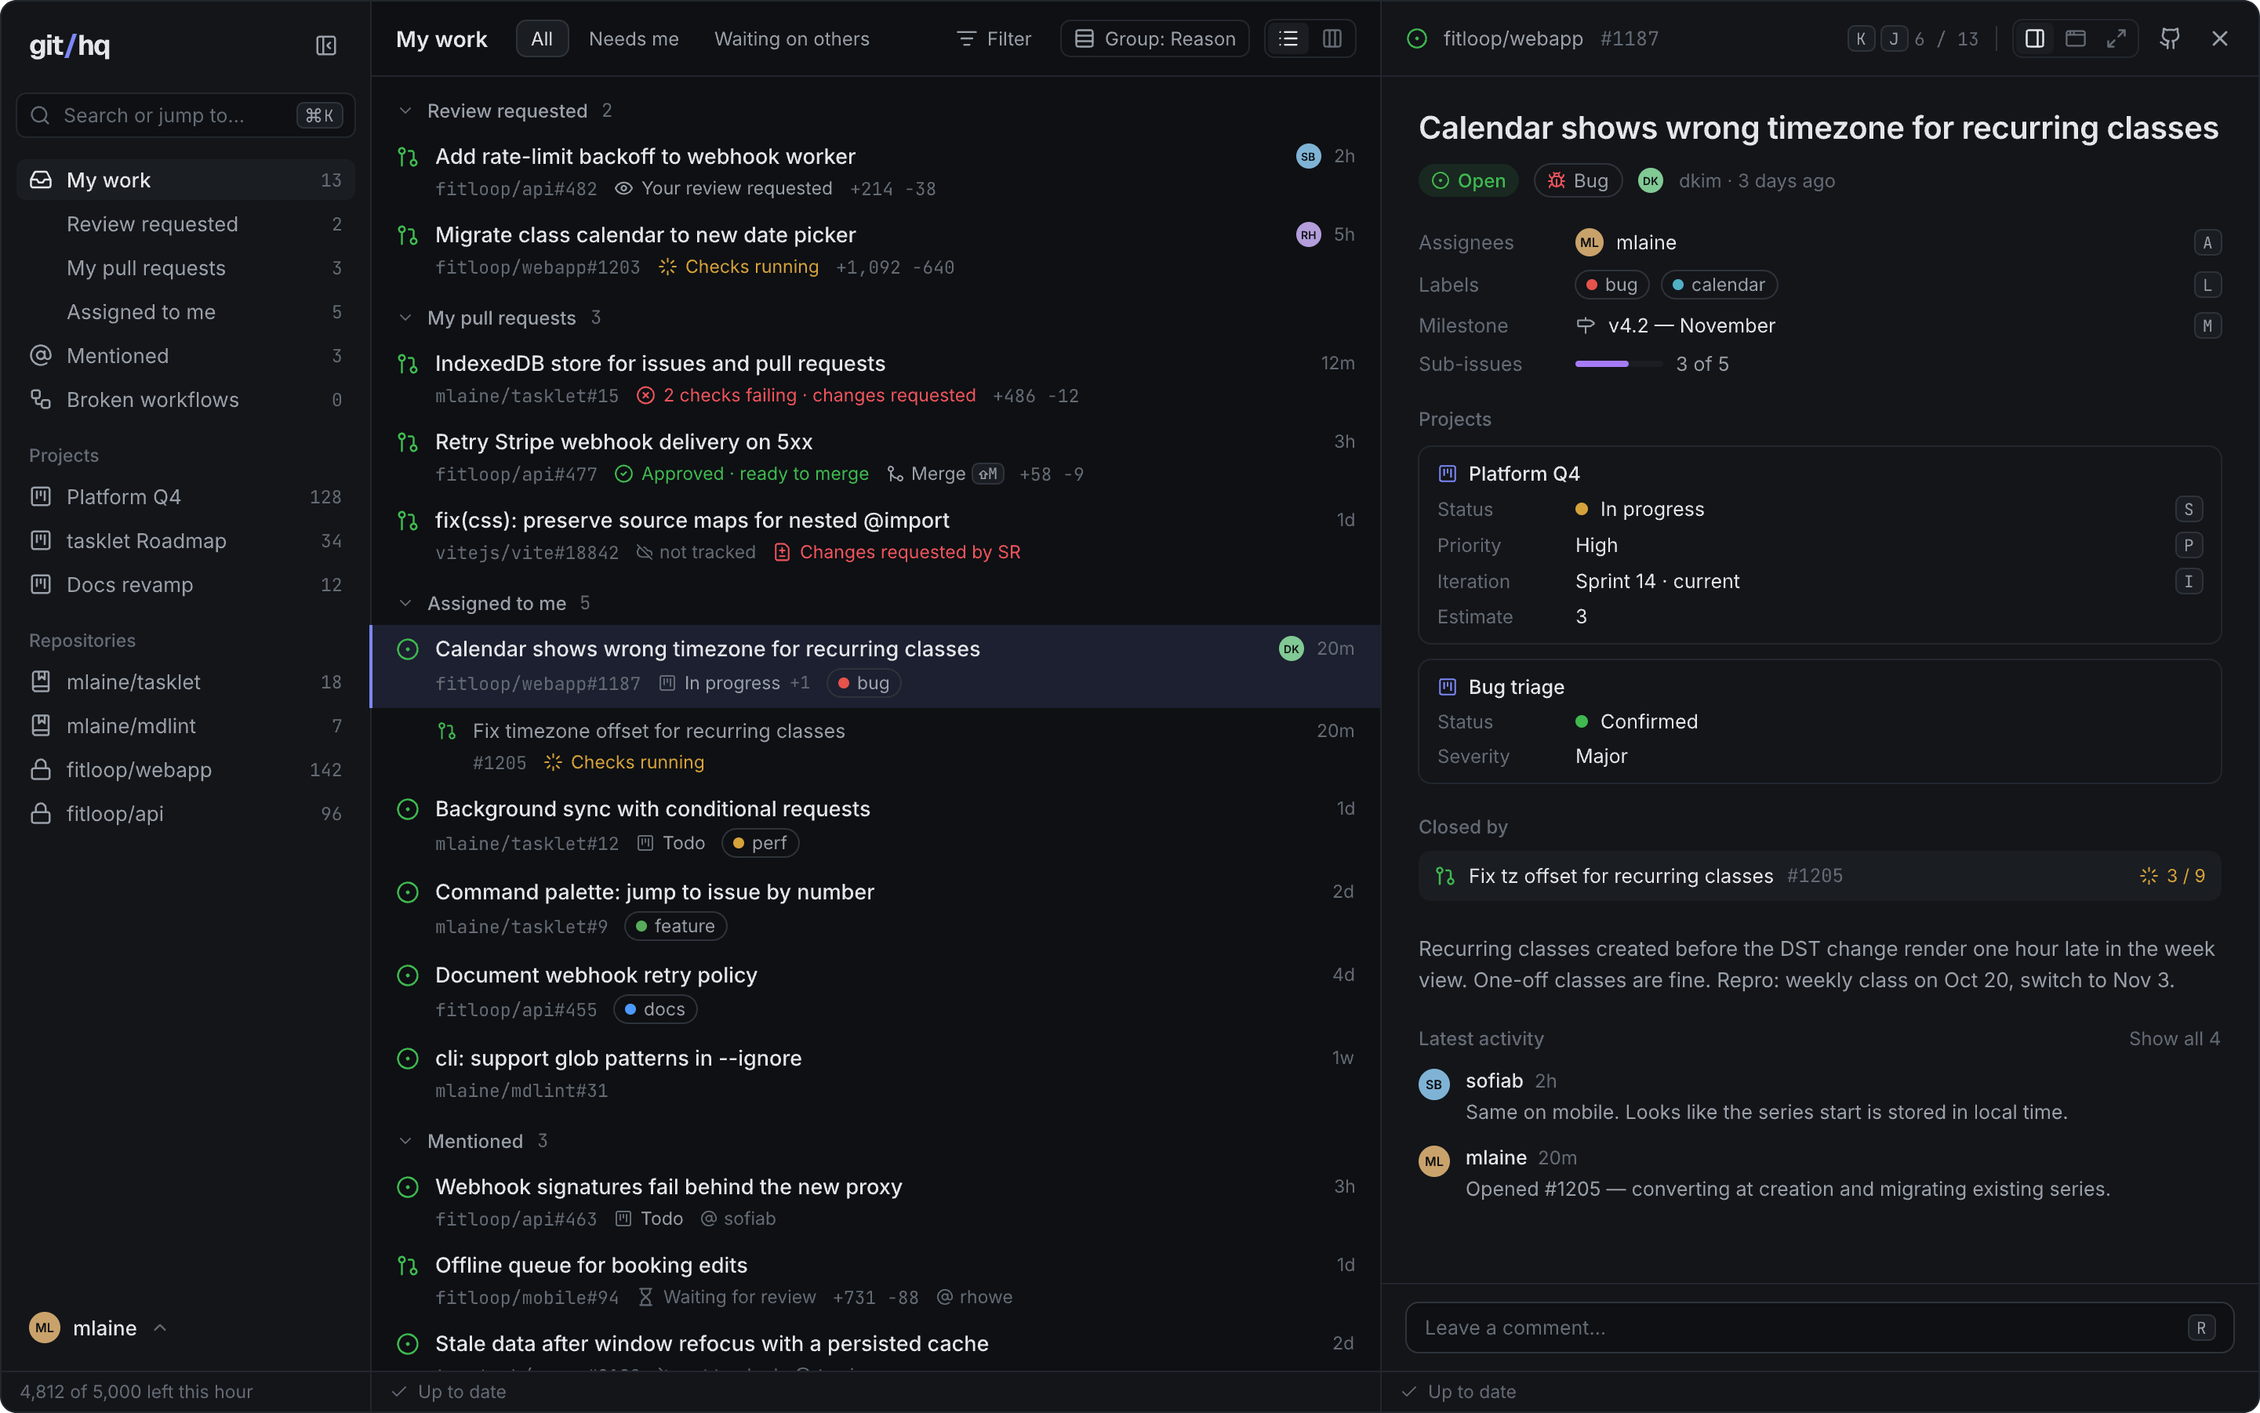
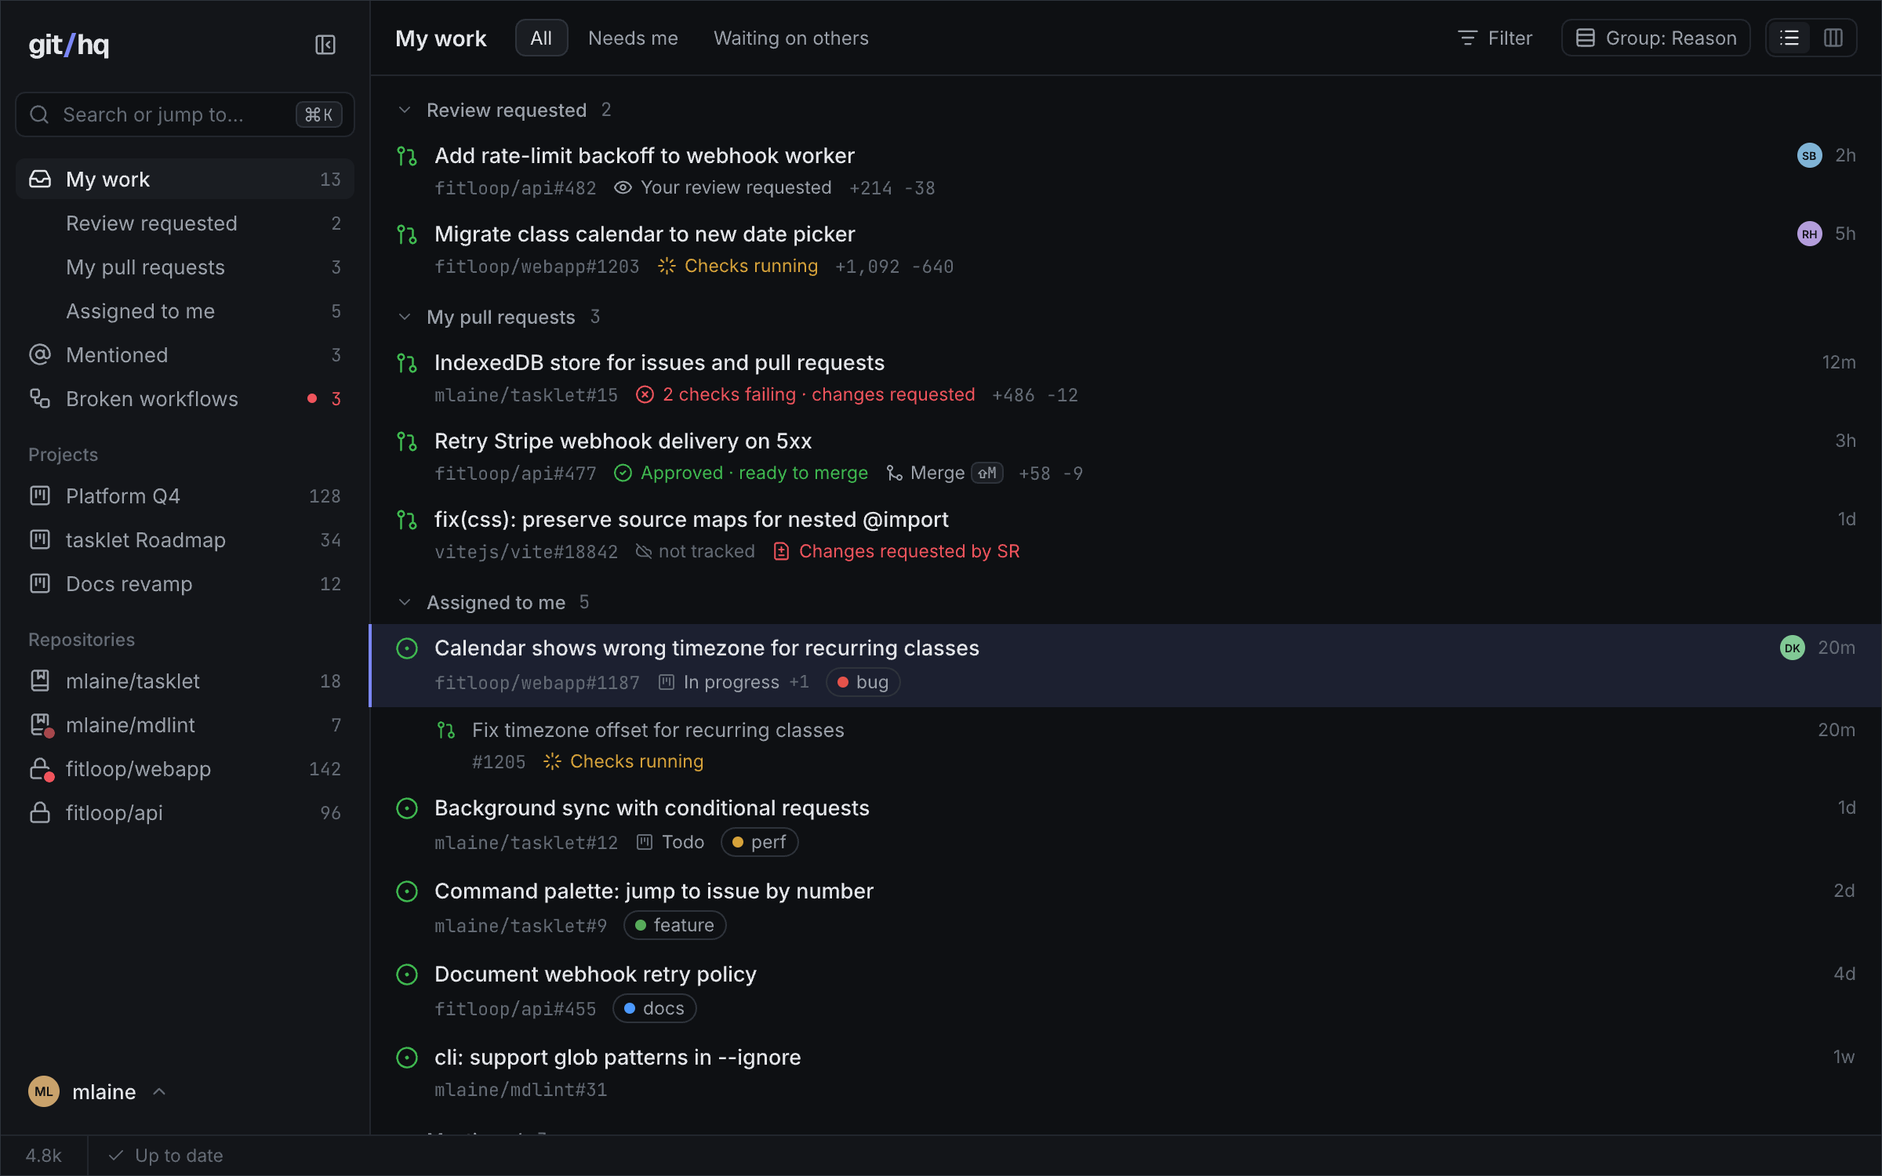
feat: open the landing page and README with all your repositories in one place

diff --git a/packages/app/landing/LandingComparison.vue b/packages/app/landing/LandingComparison.vue
@@ -1,4 +1,4 @@
-<!-- The landing page's comparison (githq.pen "Landing — githq.dev", Comparison): githq against github.com and a dedicated tracker — next to the code, instant, keyboard, every repository at once, nothing to sync, the price —, a table with githq's column lit. Every mark has its word for screen readers. -->
+<!-- The landing page's second section under the hero (githq.pen "LP1 · All your repositories, no separate tracker", Section 2): the "no separate tracker" promise — GitHub's issues and Projects are the tracker —, then githq against github.com and a dedicated tracker — next to the code, instant, keyboard, every repository at once, pull requests and workflows next to the issues, nothing to sync, the price —, a table with githq's column lit. Every mark has its word for screen readers. -->
 <script lang="ts" setup>
 import type { Translation } from '@nzyme/i18n-core';
 import { useTranslate } from '@nzyme/vue-i18n/useTranslate.js';
@@ -11,8 +11,13 @@ import * as l from './LandingComparison.loc.js';
 import LandingSectionTitle from './LandingSectionTitle.vue';
 import { useReveal } from './useReveal.js';
 
-/** What a cell of the table says: a check, a dash, "Partly" or a word of its own (a price). */
-type Mark = 'no' | 'partly' | 'yes' | Translation;
+/** "Partly", with a note under it on how far. */
+interface PartlyMark {
+  partly: Translation;
+}
+
+/** What a cell of the table says: a check, a dash, "Partly" (perhaps with a note) or a word of its own (a price). */
+type Mark = 'no' | 'partly' | 'yes' | PartlyMark | Translation;
 
 /** A row of the table: what is compared, and the marks of github.com, a dedicated tracker and githq, in that order. */
 interface ComparisonRow {
@@ -24,11 +29,16 @@ const t = useTranslate();
 const headingId = useId();
 const reveal = useReveal(useTemplateRef<HTMLElement>('section'));
 
+function isPartlyMark(mark: Mark): mark is PartlyMark {
+  return typeof mark === 'object' && 'partly' in mark;
+}
+
 const rows: ComparisonRow[] = [
   { label: l.nextToCode, marks: ['yes', 'no', 'yes'] },
   { label: l.instant, marks: ['no', 'yes', 'yes'] },
   { label: l.keyboard, marks: ['partly', 'yes', 'yes'] },
   { label: l.allRepositories, marks: ['partly', 'yes', 'yes'] },
+  { label: l.nextToIssues, marks: [{ partly: l.oneRepositoryAtATime }, 'partly', 'yes'] },
   { label: l.nothingToSync, marks: ['yes', 'no', 'yes'] },
   { label: l.price, marks: [l.free, l.perSeat, l.free] },
 ];
@@ -41,12 +51,14 @@ const rows: ComparisonRow[] = [
     :aria-labelledby="headingId"
     :data-reveal="reveal"
   >
-    <LandingSectionTitle
-      :class="css.landingComparison_title"
-      :eyebrow="t(l.eyebrow)"
-      :lines="[t(l.titleLine1), t(l.titleLine2)]"
-      :heading-id="headingId"
-    />
+    <div :class="css.landingComparison_header">
+      <LandingSectionTitle
+        :eyebrow="t(l.eyebrow)"
+        :lines="[t(l.titleLine1), t(l.titleLine2)]"
+        :heading-id="headingId"
+      />
+      <p :class="css.landingComparison_body">{{ t(l.body) }}</p>
+    </div>
 
     <table
       :class="css.landingComparison_table"
@@ -110,6 +122,11 @@ const rows: ComparisonRow[] = [
               :class="css.landingComparison_partly"
               >{{ t(l.partly) }}</span
             >
+            <template v-else-if="isPartlyMark(mark)">
+              <span :class="css.landingComparison_partly">{{ t(l.partly) }}</span>
+              <span :class="css.landingComparison_hidden">, </span>
+              <span :class="css.landingComparison_note">{{ t(mark.partly) }}</span>
+            </template>
             <span
               v-else
               :class="css.landingComparison_value"
@@ -138,8 +155,23 @@ const rows: ComparisonRow[] = [
   }
 }
 
-.landingComparison_title {
+.landingComparison_header {
   @include landing-reveal;
+
+  display: flex;
+  flex-direction: column;
+  gap: 18px;
+}
+
+.landingComparison_body {
+  max-width: 820px;
+  font-size: 20px;
+  line-height: 1.5;
+  color: $color-fg-2;
+
+  @include landing-mobile {
+    font-size: 17px;
+  }
 }
 
 // The design's 480 for the labels and 240 for each column at 1440; 74 for a column on a phone.
@@ -278,6 +310,18 @@ const rows: ComparisonRow[] = [
 
   @include landing-mobile {
     font-size: $font-size-2xs;
+  }
+}
+
+// How far "Partly" goes, on a line of its own under it.
+.landingComparison_note {
+  display: block;
+  font-size: $font-size-xs;
+  color: $color-fg-dim;
+
+  @include landing-mobile {
+    font-size: $font-size-2xs;
+    line-height: 1.25;
   }
 }
 

diff --git a/packages/app/landing/LandingScreen.vue b/packages/app/landing/LandingScreen.vue
@@ -1,4 +1,4 @@
-<!-- The landing page at `/` for a signed-out visitor (githq.pen "Landing — githq.dev"), its sections top to bottom: the navigation, the hero — "Sign in with GitHub" straight to GitHub's consent screen (D21) — with the banner of a sign-in that didn't finish (G1) above it and the development sign-in under its call to action, the GitHub concepts githq is built on, the statement, the four features, the details, the comparison, open source, the last call to action, and the footer. Every "Sign in" emits `signIn`. -->
+<!-- The landing page at `/` for a signed-out visitor (githq.pen "Landing — githq.dev"), its sections top to bottom: the navigation, the hero — "Sign in with GitHub" straight to GitHub's consent screen (D21) — with the banner of a sign-in that didn't finish (G1) above it and the development sign-in under its call to action, its two promises and why they matter now — every repository in one place, no separate tracker with the comparison, leading a team of agents —, the GitHub concepts githq is built on, the statement, the four features, the details, open source, the last call to action, and the footer. Every "Sign in" emits `signIn`. -->
 <script lang="ts" setup>
 import LandingComparison from './LandingComparison.vue';
 import LandingDetails from './LandingDetails.vue';
@@ -7,9 +7,11 @@ import LandingFinalCta from './LandingFinalCta.vue';
 import LandingFooter from './LandingFooter.vue';
 import LandingHero from './LandingHero.vue';
 import LandingNav from './LandingNav.vue';
+import LandingOnePlace from './LandingOnePlace.vue';
 import LandingOpenSource from './LandingOpenSource.vue';
 import LandingStatement from './LandingStatement.vue';
 import LandingStrip from './LandingStrip.vue';
+import LandingWhyNow from './LandingWhyNow.vue';
 
 const emit = defineEmits<{
   /** "Sign in" in the navigation and the footer, "Sign in with GitHub" in the hero and the last call to action. */
@@ -44,11 +46,13 @@ defineSlots<{
           <slot name="dev" />
         </template>
       </LandingHero>
+      <LandingOnePlace />
+      <LandingComparison />
+      <LandingWhyNow />
       <LandingStrip />
       <LandingStatement />
       <LandingFeatures />
       <LandingDetails />
-      <LandingComparison />
       <LandingOpenSource />
       <LandingFinalCta @sign-in="emit('signIn')" />
     </main>

diff --git a/packages/app/landing/LandingScreen.spec.ts b/packages/app/landing/LandingScreen.spec.ts
@@ -90,7 +90,7 @@ test('every way off the page goes to githq on GitHub, and every link within it l
 test('the comparison says every mark in words, not only with an icon', async () => {
     await Landing.run();
 
-    const table = page.getByRole('table', { name: 'The best of both. Without the second tool.' });
+    const table = page.getByRole('table', { name: 'Your tracker is already on GitHub.' });
     await expect.element(table).toBeVisible();
     const columns = table.getByRole('columnheader').elements();
     expect(columns.map(textOf)).toEqual(['github.com', 'A dedicated tracker', 'git/hq']);
@@ -103,6 +103,12 @@ test('the comparison says every mark in words, not only with an icon', async () 
         ['Instant — no spinner on navigation', 'No', 'Yes', 'Yes'],
         ['Everything from the keyboard', 'Partly', 'Yes', 'Yes'],
         ['All your repositories in one view', 'Partly', 'Yes', 'Yes'],
+        [
+            'Pull requests, checks and failing workflows next to your issues',
+            'Partly, one repository at a time',
+            'Partly',
+            'Yes',
+        ],
         ['Nothing to import or keep in sync', 'Yes', 'No', 'Yes'],
         ['Price for your team', 'Free', 'Per seat', 'Free'],
     ]);
@@ -124,7 +130,7 @@ test('the hero screenshot loads first; the rest wait for the reader, with their 
     expect(hero?.getAttribute('src')).toBe('/landing/hero-my-work.webp');
     expect(hero?.getAttribute('fetchpriority')).toBe('high');
     expect(hero?.getAttribute('loading')).toBeNull();
-    expect(rest).toHaveLength(5);
+    expect(rest).toHaveLength(7);
     for (const image of rest) {
         expect(image.getAttribute('loading')).toBe('lazy');
         expect(image.getAttribute('decoding')).toBe('async');
@@ -235,7 +241,7 @@ function heroAddress(): Element {
 
 /** The hero's screenshot: how it moves with the loop is in `data-swap`. */
 function heroShot(): Element {
-    const image = page.getByRole('img', { name: /across GitHub/ }).element().parentElement;
+    const image = page.getByRole('img', { name: /across every repository/ }).element().parentElement;
     if (!image) {
         throw new Error('The hero has no screenshot');
     }

diff --git a/packages/app/landing/LandingOnePlace.vue b/packages/app/landing/LandingOnePlace.vue
@@ -1,0 +1,28 @@
+<!-- The landing page's first section under the hero (githq.pen "LP1 · All your repositories, no separate tracker", Section 1): the "one place" promise — reviews, pull requests with their checks, workflows failing on main and assigned issues from every repository in one list —, the screenshot first. -->
+<script lang="ts" setup>
+import { useTranslate } from '@nzyme/vue-i18n/useTranslate.js';
+import { CircleDot, Eye, GitPullRequest, OctagonX } from 'lucide-vue-next';
+
+import * as l from './LandingOnePlace.loc.js';
+import LandingFeature from './LandingFeature.vue';
+
+const t = useTranslate();
+</script>
+
+<template>
+  <LandingFeature
+    number="01"
+    :kicker="t(l.kicker)"
+    :title="t(l.title)"
+    :body="t(l.body)"
+    :points="[
+      { icon: Eye, text: t(l.reviews) },
+      { icon: GitPullRequest, text: t(l.pullRequests) },
+      { icon: OctagonX, text: t(l.workflows) },
+      { icon: CircleDot, text: t(l.issues) },
+    ]"
+    image="/landing/one-place.webp"
+    :image-alt="t(l.alt)"
+    flip
+  />
+</template>

diff --git a/packages/app/landing/LandingWhyNow.vue b/packages/app/landing/LandingWhyNow.vue
@@ -1,0 +1,26 @@
+<!-- The landing page's third section under the hero (githq.pen "LP1 · All your repositories, no separate tracker", Section 3): why it matters now — even solo, you hand out issues to agents and work through the pull requests they send back —, the screenshot second. -->
+<script lang="ts" setup>
+import { useTranslate } from '@nzyme/vue-i18n/useTranslate.js';
+import { Bot, CircleDot, GitMerge } from 'lucide-vue-next';
+
+import LandingFeature from './LandingFeature.vue';
+import * as l from './LandingWhyNow.loc.js';
+
+const t = useTranslate();
+</script>
+
+<template>
+  <LandingFeature
+    number="03"
+    :kicker="t(l.kicker)"
+    :title="t(l.title)"
+    :body="t(l.body)"
+    :points="[
+      { icon: CircleDot, text: t(l.handOut) },
+      { icon: Bot, text: t(l.sentBack) },
+      { icon: GitMerge, text: t(l.merge) },
+    ]"
+    image="/landing/agents.webp"
+    :image-alt="t(l.alt)"
+  />
+</template>

diff --git a/packages/e2e/src/landing/landing.spec.ts b/packages/e2e/src/landing/landing.spec.ts
@@ -18,10 +18,10 @@ import { answerTrackingCandidates } from '../tracking/answerTracking.js';
 const LOGIN = SAMPLE_VIEWER.viewer.login;
 
 /** The landing page's headline as the server renders it (as `checkPrerenderedPages` looks for it). */
-const LANDING_HEADING = '>Your GitHub issues,';
+const LANDING_HEADING = '>All your repositories';
 
 /** The headline's text, as the browser shows it. */
-const LANDING_HEADING_TEXT = 'Your GitHub issues,';
+const LANDING_HEADING_TEXT = 'All your repositories';
 
 /** The `Cookie` header of a browser holding the hint. */
 const HINT_HEADER = `${SIGNED_IN_HINT_COOKIE.name}=${SIGNED_IN_HINT_COOKIE.value}`;

diff --git a/packages/e2e/src/auth/signIn.spec.ts b/packages/e2e/src/auth/signIn.spec.ts
@@ -20,7 +20,7 @@ test('signed out, home is the landing page, saying what GitHub will ask for', as
 
     await expect(page).toHaveURL('/');
     const landing = new LandingHarness(page);
-    await expect(landing.root.getByRole('heading', { level: 1 })).toContainText('Your GitHub issues,');
+    await expect(landing.root.getByRole('heading', { level: 1 })).toContainText('All your repositories');
     await expect(landing.root).toContainText('GitHub will ask for full repository access.');
     await expect(landing.signInButton).toBeVisible();
     await expect(landing.banner).toBeHidden();

diff --git a/packages/e2e/src/desktop/signIn.spec.ts b/packages/e2e/src/desktop/signIn.spec.ts
@@ -44,7 +44,7 @@ test('signed out, the app opens on its own sign-in, never on the landing page: a
     page,
 }) => {
     const signIn = new DesktopSignInScreenHarness(page);
-    const landingHeading = page.getByRole('heading', { name: /Your GitHub issues/ });
+    const landingHeading = page.getByRole('heading', { name: /All your repositories/ });
 
     await page.goto('/');
     await expect(signIn.signInButton).toBeVisible();

diff --git a/packages/app/scripts/checkPrerenderedPages.ts b/packages/app/scripts/checkPrerenderedPages.ts
@@ -1,7 +1,7 @@
 import type { BuiltFile } from './readBuiltFiles.js';
 
 /** The landing page's heading, as the server renders it (`landing/LandingScreen.loc.yaml`). */
-const LANDING_HEADING = '>Your GitHub issues,';
+const LANDING_HEADING = '>All your repositories';
 
 /** The app's styles, linked by both pages (`features.inlineStyles` in `nuxt.config.ts`). */
 const STYLESHEET = '<link rel="stylesheet" href="/_nuxt/entry.';

diff --git a/packages/worker/src/home.test.ts b/packages/worker/src/home.test.ts
@@ -8,7 +8,7 @@ import type { WorkerEnv } from './WorkerEnv.js';
 
 const ORIGIN = 'https://githq.test';
 const SHELL = '<html data-ssr="false">shell</html>';
-const LANDING = '<html>Your GitHub issues, landing</html>';
+const LANDING = '<html>All your repositories, landing</html>';
 
 function assets(overrides: Partial<Record<string, Response>> = {}) {
     const asked: Request[] = [];

diff --git a/packages/app/landing/LandingHero.vue b/packages/app/landing/LandingHero.vue
@@ -101,7 +101,7 @@ onBeforeUnmount(() => clearInterval(timer));
           :class="css.landingHero_image"
           src="/landing/hero-my-work.webp"
           width="2400"
-          height="1501"
+          height="1500"
           fetchpriority="high"
           :alt="t(l.heroAlt)"
         />

diff --git a/README.md b/README.md
@@ -2,7 +2,7 @@
 
 <a href="https://githq.dev"><img src="docs/assets/readme/wordmark.svg" alt="githq" height="80"></a>
 
-A keyboard-first client for GitHub Issues, pull requests and Projects.
+All your repositories in one place. No separate tracker.
 
 [githq.dev](https://githq.dev) · [Design](docs/design/githq/README.md) · [Issues](https://github.com/kedrzu/githq/issues)
 
@@ -11,24 +11,28 @@ A keyboard-first client for GitHub Issues, pull requests and Projects.
 
 </div>
 
-<img src="docs/assets/readme/my-work.png" alt="githq: My work across every repository, with an issue open in the side panel" width="100%">
+<img src="docs/assets/readme/my-work.png" alt="githq: My work across every repository, with the sidebar marking the repositories whose workflows are broken" width="100%">
 
 ## Why
 
-GitHub is a fine place to keep issues: next to the code, open to contributors, free. It is a slow place to work
-them. Every view is a page load, there is no single list of what concerns you across repositories, and the
-mouse is never optional. The usual answer is a dedicated tracker, which means a second tool, a sync, and seats
-to pay for.
+Even solo, you are leading a team now. Agents open pull requests in ten repositories while you hand out the
+next issue, and GitHub shows each repository on its own pages: issues here, pull requests there, a deploy that
+failed overnight in a third repository's Actions tab. What needs you gets lost in the noise. The usual answer for
+the planning half is a dedicated tracker, which means a second tool, a sync, and seats to pay for once you grow.
 
-githq is the other answer: a fast client for the tracker you already have. It shows what GitHub has and
-nothing else, and every change you make is an ordinary GitHub change, visible on github.com at once.
+githq is the other answer: one place for all your repositories, on the tracker you already have. Issues,
+Projects, pull requests and Actions from every repository on one fast, keyboard-first screen. It shows what
+GitHub has and nothing else, and every change you make is an ordinary GitHub change, visible on github.com at
+once.
 
 ## What it does
 
 - **My work** — issues assigned to you, your pull requests with checks and reviews, reviews waiting on you and
   mentions, from every repository, including other people's.
-- **Repositories and Projects** — tracked repositories and GitHub Projects as lists or boards, with the
-  fields, views and iterations each project defines.
+- **Your tracker, on GitHub** — tracked repositories and GitHub Projects as lists or boards, with the fields,
+  views and iterations each project defines.
+- **Stacked pull requests** — a stack shows as one entry in your lists, and you walk through it in order.
+  Merging and the workflows failing on `main` in any repository are next.
 - **Keyboard first** — a command menu (<kbd>⌘</kbd> <kbd>K</kbd>) and single-key actions on the selected
   items.
 - **Instant** — screens open from a copy in your browser; edits show at once and are written to GitHub behind
